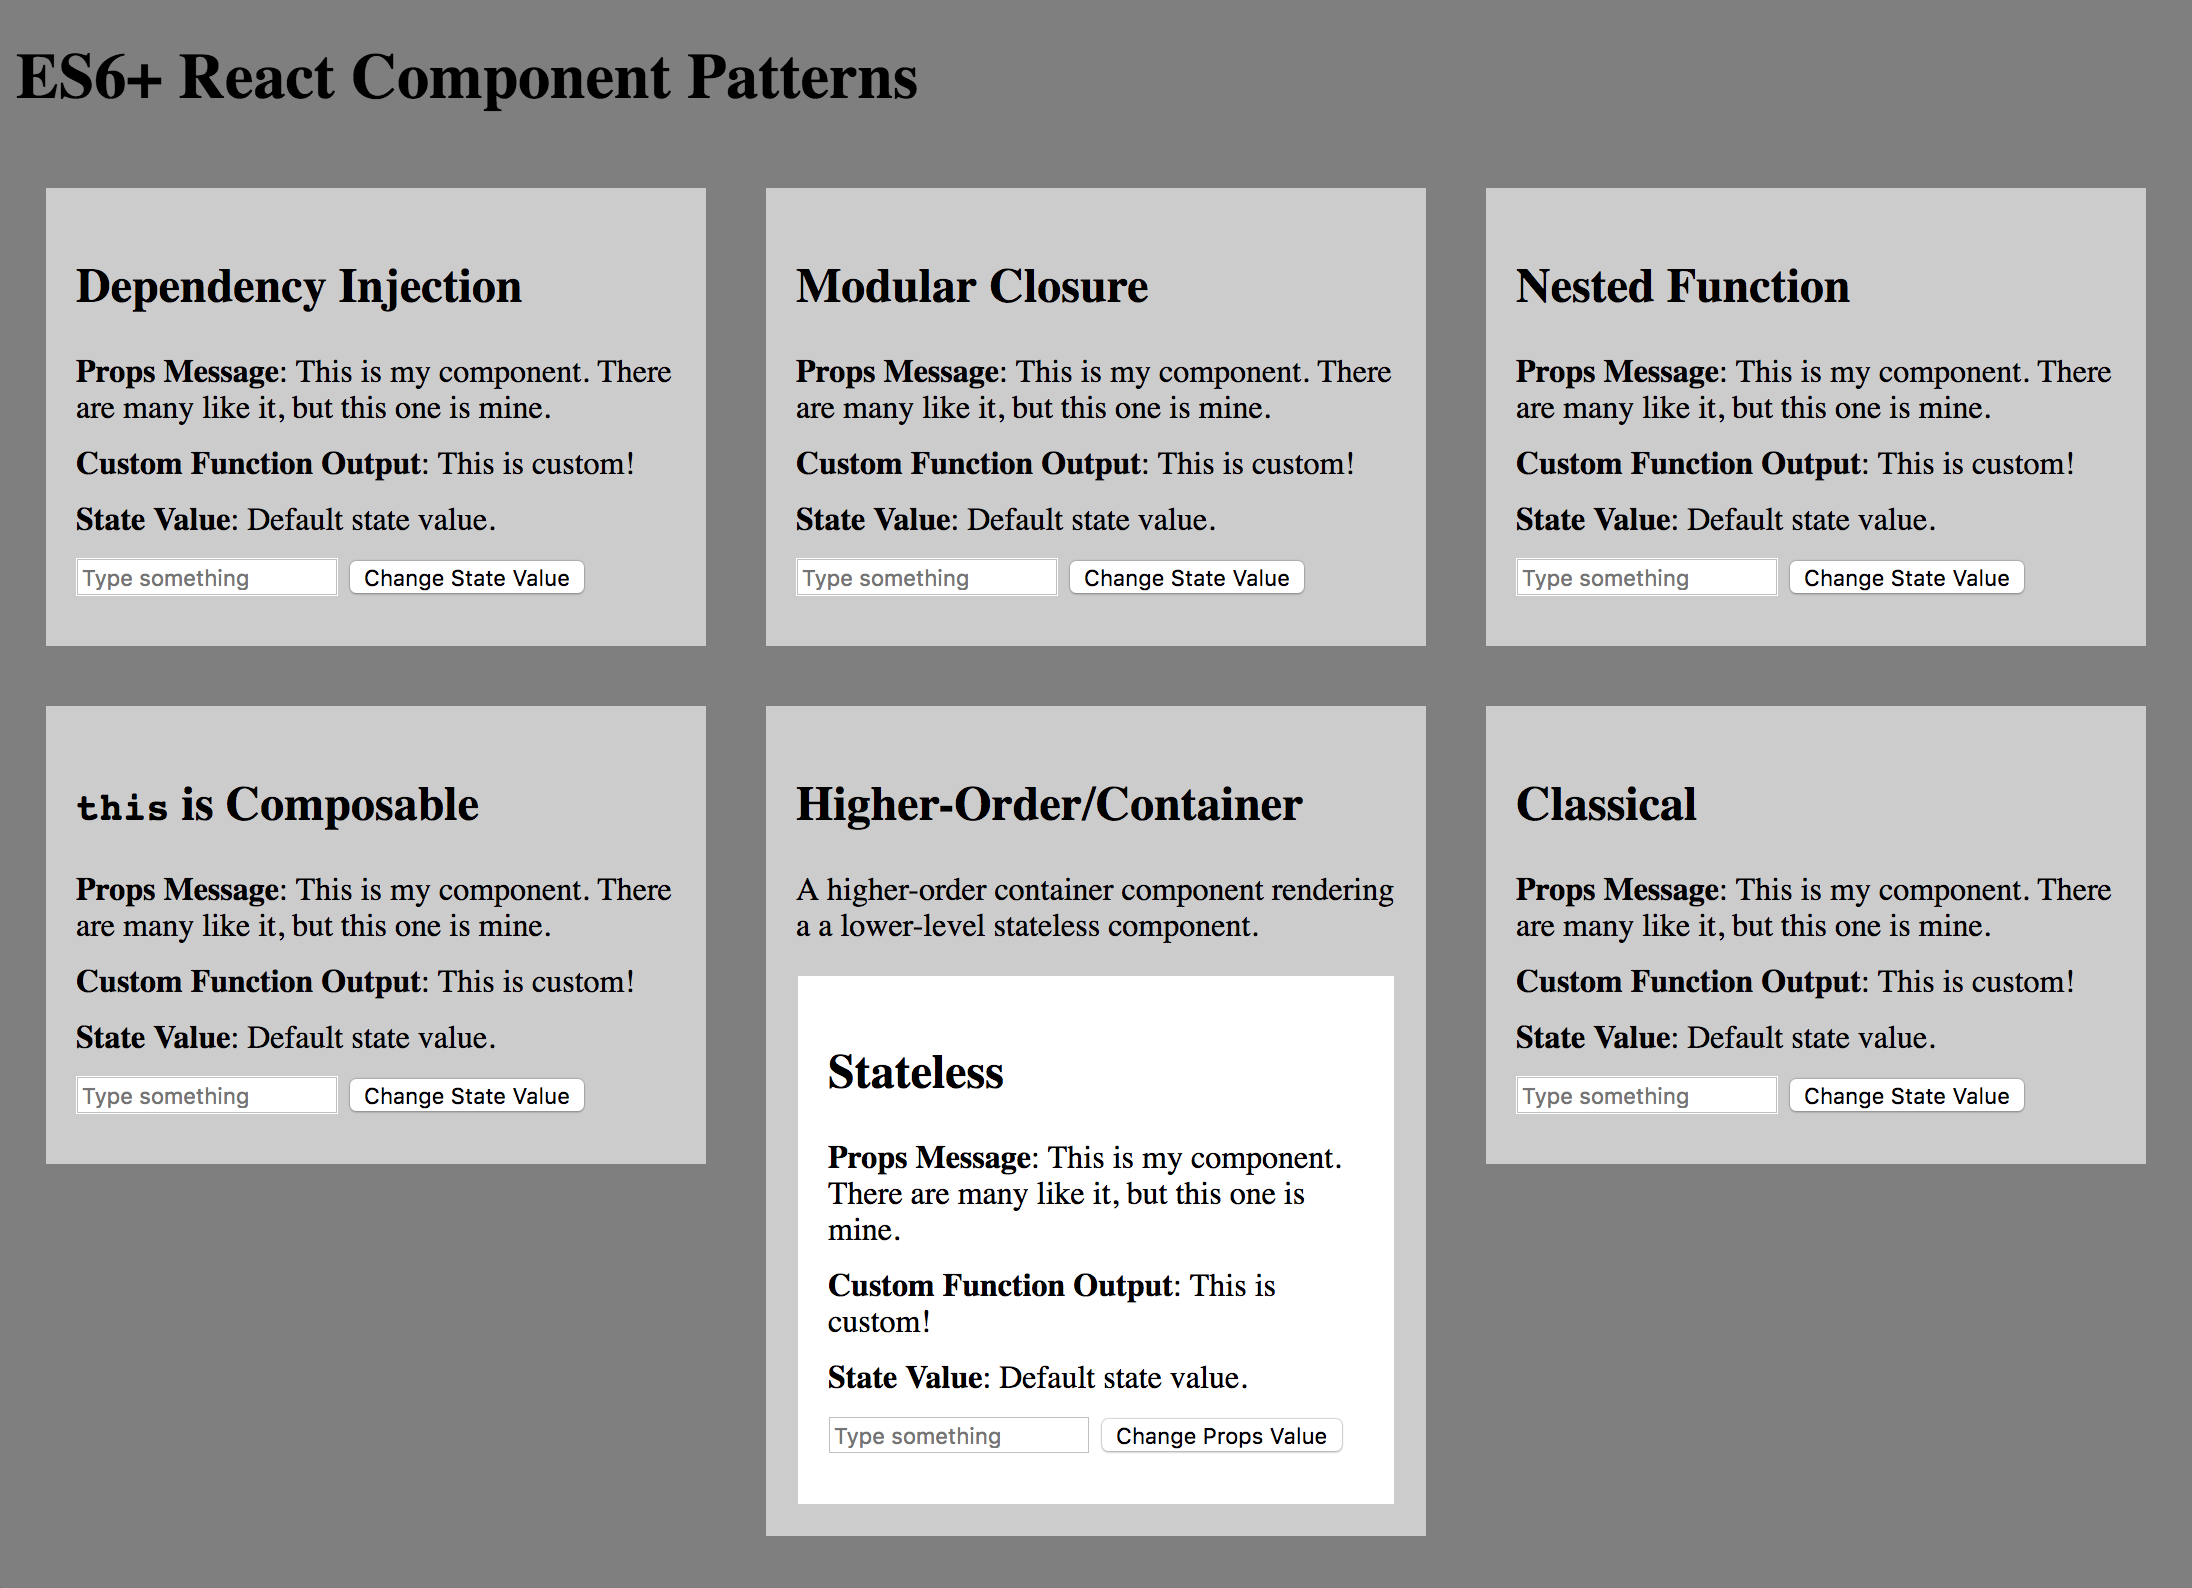
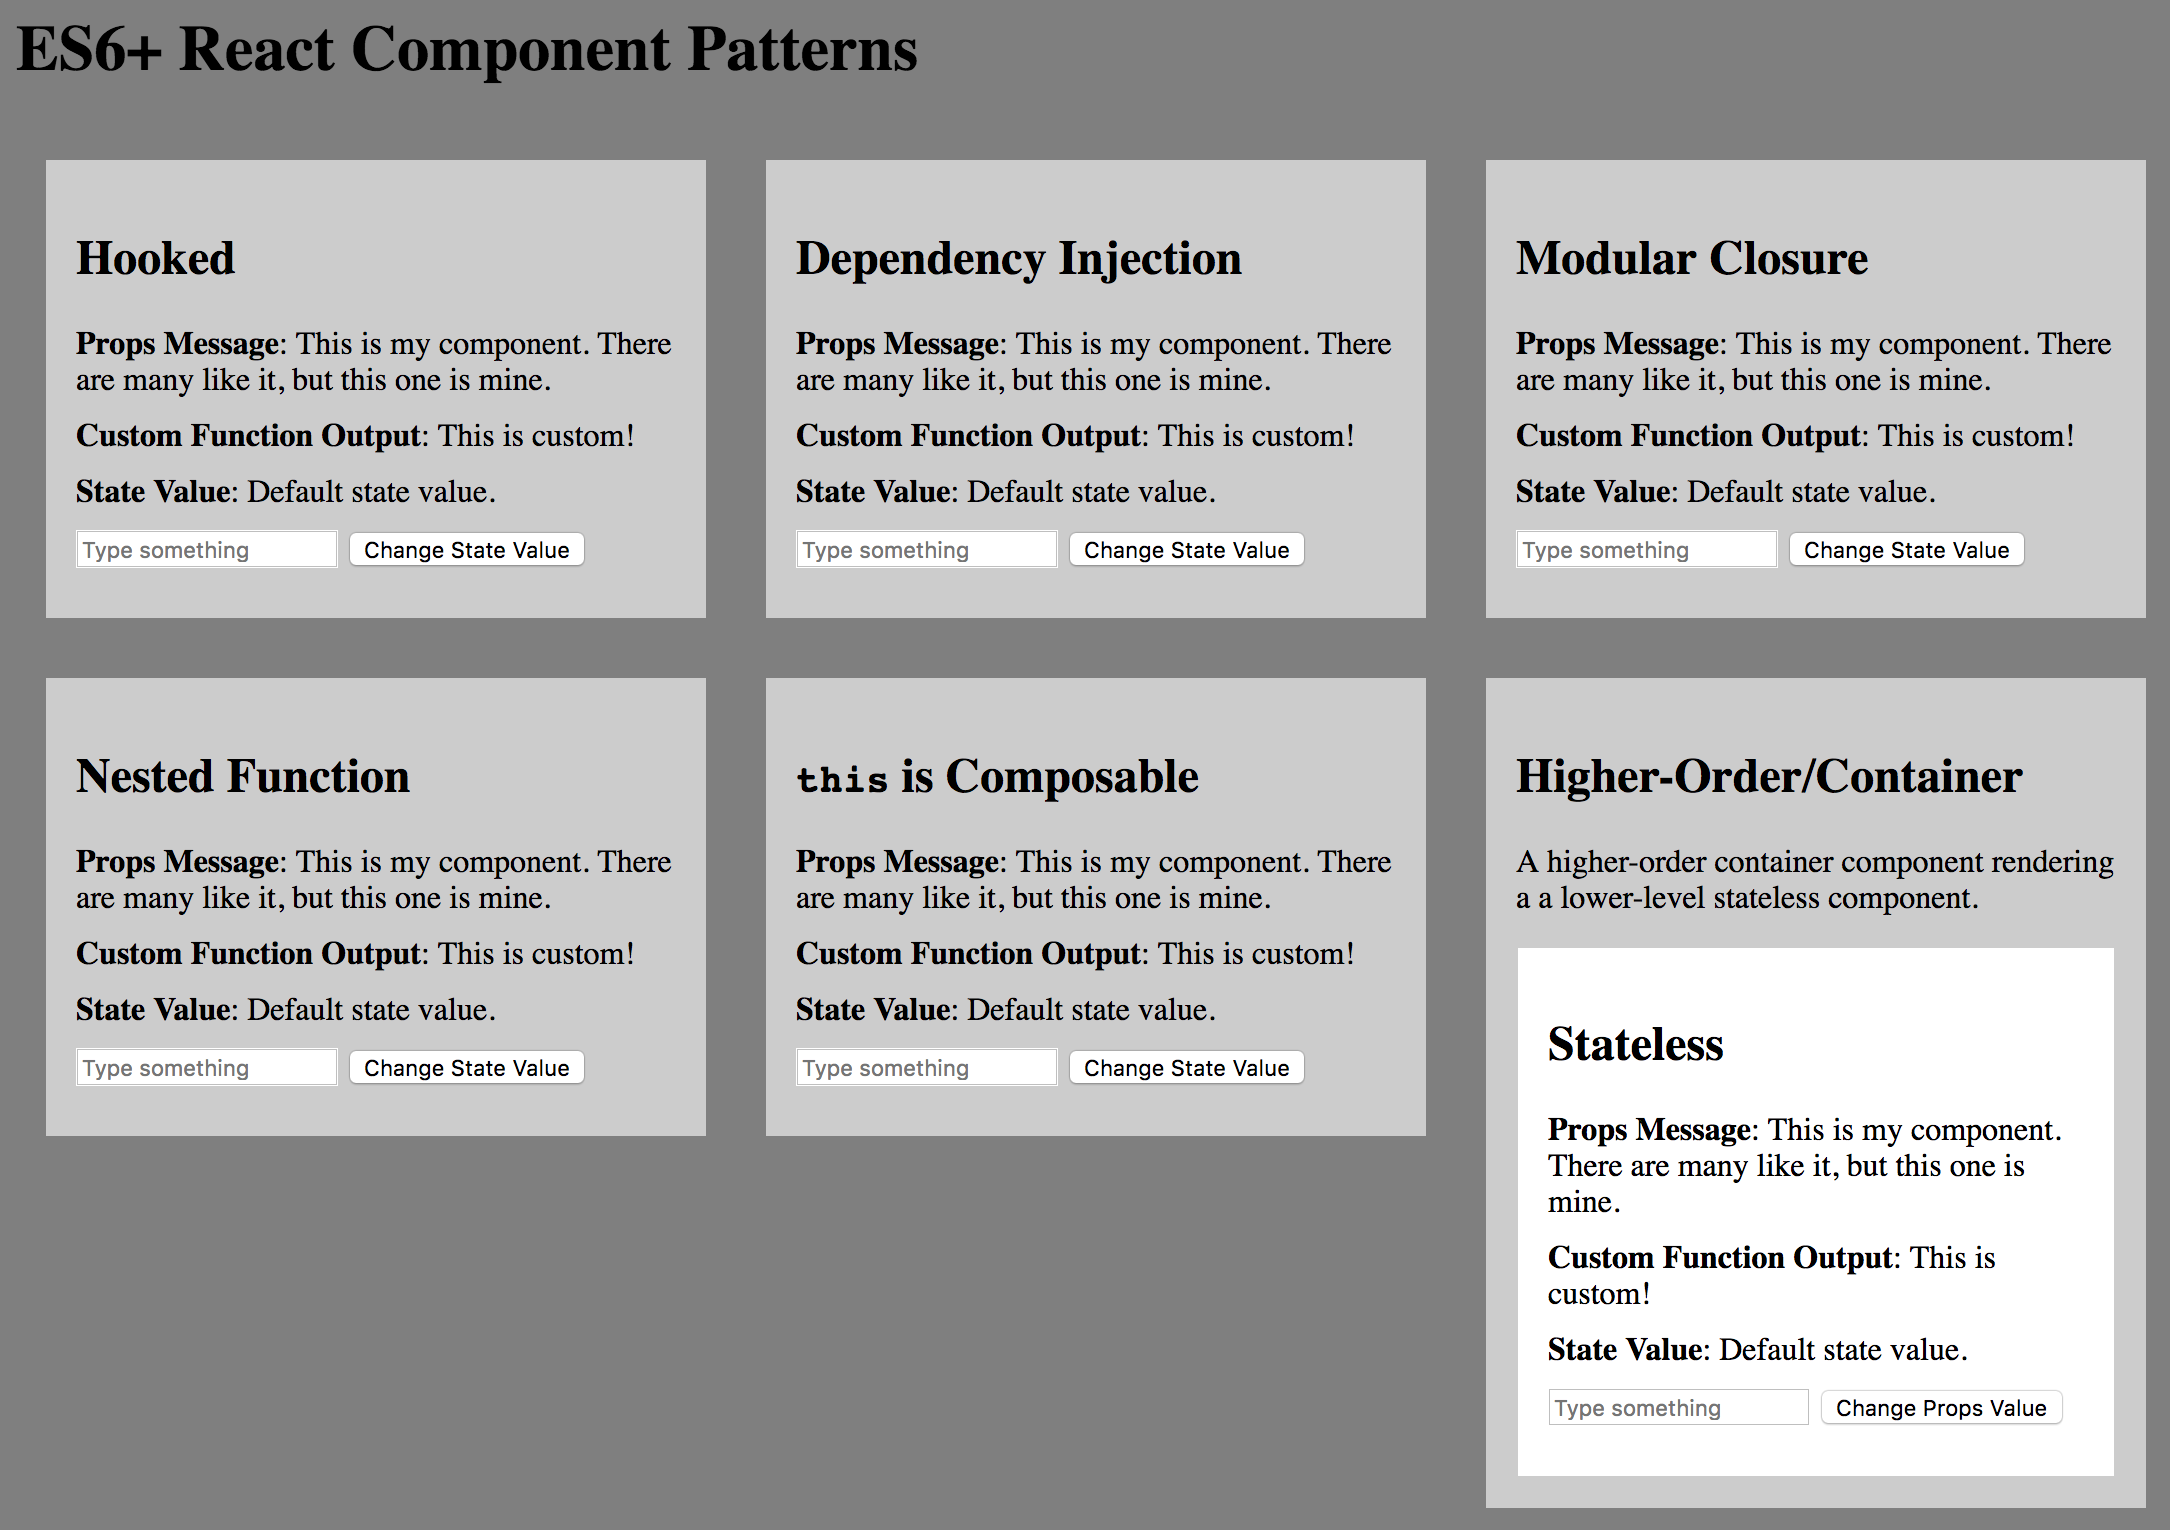
update README with links and thoughts on new Hooks API

diff --git a/README.md b/README.md
@@ -1,6 +1,6 @@
 # ES6+ React Component Patterns
 
-Updated for [React 16.3.2](https://github.com/facebook/react/blob/master/CHANGELOG.md#1632-april-16-2018)
+Updated for React 16.7.0-alpha.0
 
 ![Screenshot](screenshot.png)
 
@@ -9,6 +9,17 @@ This is a set of different patterns for creating React components.
 There's more than one way to create a React component. The old way (using the
 `React.createClass` function) has now been deprecated in version 16. But that
 doesn't mean you're stuck using the classical inheritance pattern.
+
+**UPDATE**: With the introduction of [Hooks](https://reactjs.org/docs/hooks-intro.html)
+in React 16.7, this is now my preferred component style (see [Hooked Component Example](./src/javascripts/Hooked.js)).
+My thoughts below, as well as the other examples, are still relevant, however
+Hooks now provide a powerful, simple, and direct way of making components that
+has all the composable clarity I've always desired without all the added hoops
+to jump through.
+
+You should still, always, use a stateless function component whenever possible,
+but if you need other React features, you can now import them as needed without
+rewriting your component into a classical mess of binded `this`s :)
 
 ## Usage
 
@@ -29,11 +40,11 @@ object literals to create reusable modules.
 
 But to each his/her own.
 
-## Aren't Stateless Functional Components Better?
+## Aren't Stateless Function Components Better?
 
 Yes.
 
-As a rule of thumb, you should *always* create "stateless functional components"
+As a rule of thumb, you should *always* create "stateless function components"
 whenever possible. These are modules which return a function that does nothing
 other than render some JSX, along with inserting some props into the mix (but
 do not track any kind of state). These are simpler, faster, and easier than
@@ -50,6 +61,10 @@ it look like what they're used to. That doesn't mean you should/have do it too.
 By all means, if classes are your cup of tea, do what you think is best, but I
 just want to show that there do exist alternatives; ones that don't require
 `class`, or `this`, or `new` or `extends` or `super` or `bind` ;)
+
+As of v16.7.0, you can now use [Hooks](https://reactjs.org/docs/hooks-intro.html)
+to access React's features from a simple function component. You no longer need
+to use classes.
 
 ## Object's without classes? WTF?
 
@@ -70,6 +85,10 @@ this new object (passing the props into it).
 
 This is essentially all there really is to a React component.
 
+NOTE: [Hooks](https://reactjs.org/docs/hooks-intro.html) are an even easier way
+of making components without classes (or understanding the `React.Component.prototype`).
+I recommend using this method instead.
+
 ## But isn't doing it the Facebook way better/safer/more optimized/faster?
 
 No, not really. Not using classes can actually be *less* resource hungry,
@@ -84,6 +103,7 @@ this reason, I prefer not using classical components.
 
 ## Further Reading
 
+- [Introducing Hooks](https://reactjs.org/docs/hooks-intro.html)
 - [Alternative Ways to Define React Components](https://gist.github.com/jquense/47bbd2613e0b03d7e51c)
 - [Composition Over Inheritance](https://www.youtube.com/watch?v=wfMtDGfHWpA)
 - [Baby's First Reaction](https://medium.com/javascript-scene/baby-s-first-reaction-2103348eccdd)
